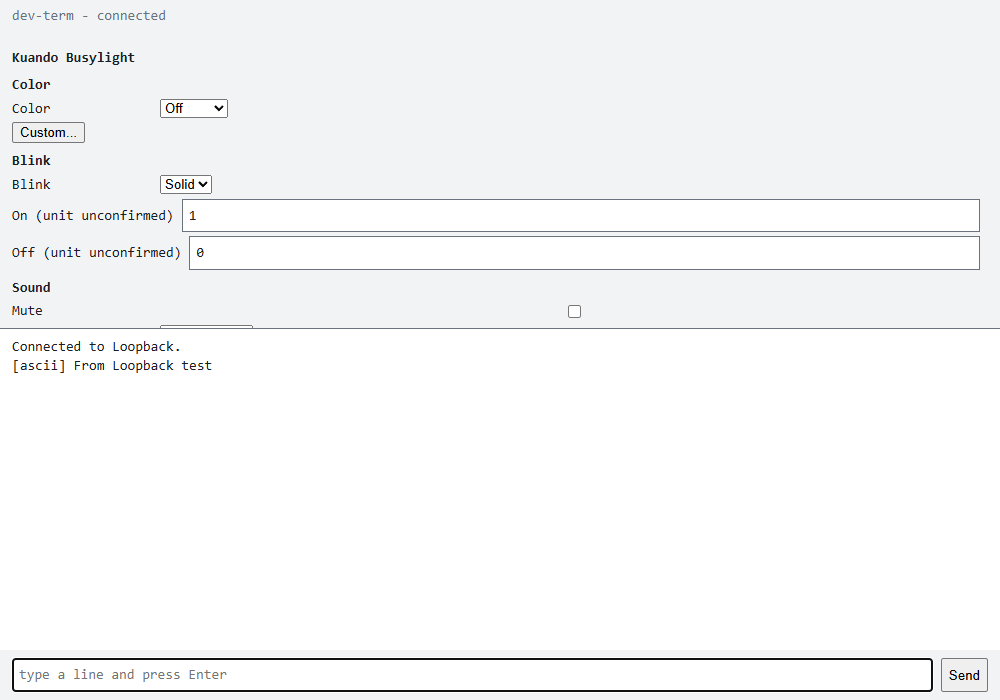
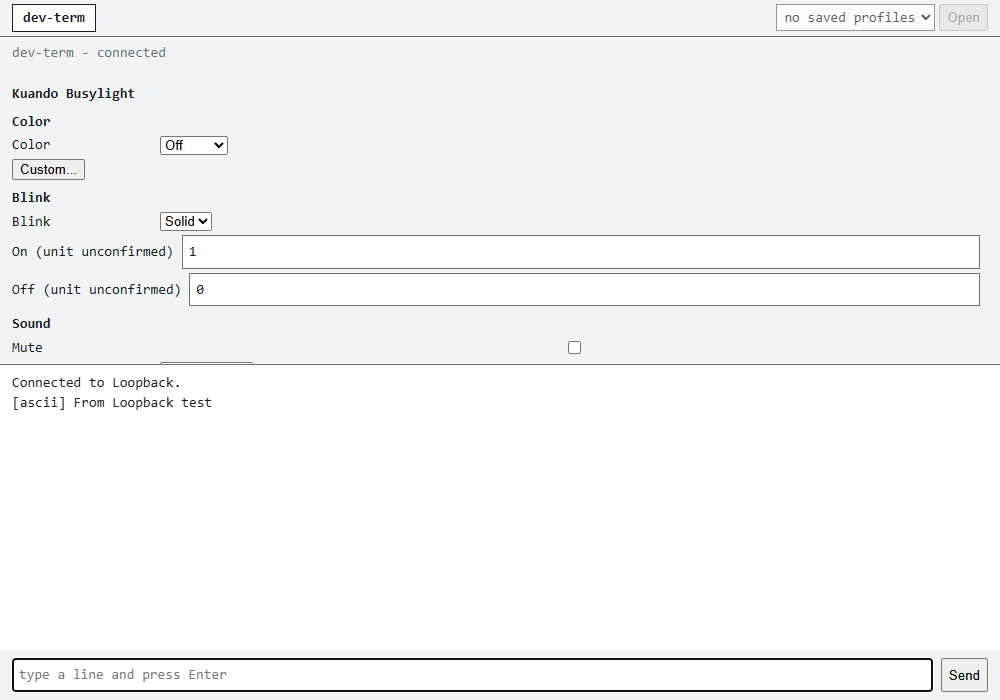
Web: main page shows each session as a tab, with a saved-profile picker to open more

diff --git a/src/DevTerm.Web/TerminalPage.cs b/src/DevTerm.Web/TerminalPage.cs
@@ -20,6 +20,12 @@ internal static class TerminalPage
           form { display: flex; gap: 8px; padding: 8px 12px; background: var(--bar); }
           input { flex: 1; font: inherit; padding: 6px; background: var(--bg); color: var(--fg); border: 1px solid var(--dim); }
           .err { color: #d1242f; }
+          #tabs { display: flex; gap: 4px; align-items: center; padding: 4px 12px; background: var(--bar); border-bottom: 1px solid var(--dim); flex-wrap: wrap; }
+          #tabs .tab { font: inherit; padding: 3px 10px; background: var(--bg); color: var(--fg); border: 1px solid var(--dim); cursor: pointer; }
+          #tabs .tab.on { border-color: var(--fg); font-weight: bold; }
+          #tabs .close { font: inherit; padding: 1px 5px; margin-left: -4px; margin-right: 8px; background: transparent; color: var(--dim); border: 0; cursor: pointer; }
+          #newsession { margin-left: auto; display: flex; gap: 4px; }
+          #newsession select { font: inherit; background: var(--bg); color: var(--fg); border: 1px solid var(--dim); padding: 3px; }
           #panel { padding: 8px 12px; background: var(--bar); border-bottom: 1px solid var(--dim); max-height: 40%; overflow: auto; }
           #panel h2 { font-size: 14px; margin: 8px 0 4px; }
           #panel .row { display: flex; align-items: center; gap: 8px; margin: 4px 0; flex-wrap: wrap; }
@@ -28,29 +34,86 @@ internal static class TerminalPage
         </style>
         </head>
         <body>
+        <nav id="tabs"></nav>
         <header id="status">connecting...</header>
         <div id="panel" hidden></div>
         <pre id="out"></pre>
         <form id="f"><input id="line" autocomplete="off" autofocus placeholder="type a line and press Enter"><button>Send</button></form>
         <script>
           const out = document.getElementById('out'), status = document.getElementById('status'), input = document.getElementById('line');
-          const ws = new WebSocket((location.protocol === 'https:' ? 'wss://' : 'ws://') + location.host + '/ws');
-          ws.onopen = () => status.textContent = 'dev-term - connected';
-          ws.onclose = () => status.textContent = 'dev-term - disconnected (reload to reconnect)';
-          ws.onmessage = e => {
-            const span = document.createElement('div');
-            span.textContent = e.data;
-            if (e.data.startsWith('!')) span.className = 'err';
-            out.appendChild(span);
-            out.scrollTop = out.scrollHeight;
-          };
+          const tabsEl = document.getElementById('tabs'), panelEl = document.getElementById('panel');
+          const tabs = []; let active = null; let panelShown = false;
+          let readOnly = false, profiles = [], pickedProfile = null;
+
+          // One tab per session: the host's own session (/ws) and every connection opened from a saved profile (/ws/{id}).
+          // Each keeps its own WebSocket and output, so switching tabs loses nothing.
+          function appendLine(text) {
+            const d = document.createElement('div'); d.textContent = text;
+            if (text.startsWith('!')) d.className = 'err';
+            out.appendChild(d); out.scrollTop = out.scrollHeight;
+          }
+          function render() {
+            tabsEl.textContent = '';
+            for (const t of tabs) {
+              const b = document.createElement('button');
+              b.className = 'tab' + (t === active ? ' on' : ''); b.dataset.tab = t.key; b.textContent = t.name; b.onclick = () => select(t);
+              tabsEl.append(b);
+              if (t.key !== 'main') {
+                const x = document.createElement('button');
+                x.className = 'close'; x.textContent = 'x'; x.title = 'Close ' + t.name; x.disabled = readOnly; x.onclick = () => closeTab(t);
+                tabsEl.append(x);
+              }
+            }
+            const pick = document.createElement('select'); pick.id = 'profile';
+            const open = document.createElement('button'); open.id = 'open'; open.textContent = 'Open'; open.disabled = readOnly || profiles.length === 0;
+            for (const n of profiles) pick.append(Object.assign(document.createElement('option'), { textContent: n.name, value: n.name, title: n.description }));
+            if (profiles.length === 0) pick.append(Object.assign(document.createElement('option'), { textContent: 'no saved profiles' }));
+            pick.disabled = profiles.length === 0; pick.value = pickedProfile || pick.value; pick.onchange = () => { pickedProfile = pick.value; };
+            open.onclick = () => openProfile(pick.value);
+            const add = document.createElement('span'); add.id = 'newsession'; add.append(pick, open);
+            tabsEl.append(add);
+            if (active) {
+              out.textContent = '';
+              for (const l of active.lines) appendLine(l);
+              status.textContent = active.name + ' - ' + active.state;
+              panelEl.hidden = !(panelShown && active.key === 'main');
+            }
+          }
+          function addTab(key, name, path, makeActive) {
+            if (tabs.some(t => t.key === key)) return;
+            const tab = { key, name, lines: [], state: 'connecting...' };
+            const ws = new WebSocket((location.protocol === 'https:' ? 'wss://' : 'ws://') + location.host + path);
+            tab.ws = ws;
+            ws.onopen = () => { tab.state = 'connected'; if (tab === active) render(); };
+            ws.onclose = () => { tab.state = 'disconnected' + (key === 'main' ? ' (reload to reconnect)' : ''); if (tab === active) render(); };
+            ws.onmessage = e => { tab.lines.push(e.data); if (tab.lines.length > 5000) tab.lines.shift(); if (tab === active) appendLine(e.data); };
+            tabs.push(tab);
+            if (makeActive || !active) active = tab;
+            render();
+          }
+          function select(tab) { active = tab; render(); input.focus(); }
+          function removeTab(key) {
+            const i = tabs.findIndex(t => t.key === key);
+            if (i < 0) return;
+            const [gone] = tabs.splice(i, 1);
+            try { gone.ws.close(); } catch { }
+            if (active === gone) active = tabs[Math.max(0, i - 1)];
+            render();
+          }
+          async function closeTab(tab) { await fetch('/api/connections/' + tab.key, { method: 'DELETE' }); removeTab(tab.key); }
+          async function openProfile(name) {
+            const res = await fetch('/api/connections?name=' + encodeURIComponent(name), { method: 'POST' });
+            if (!res.ok) { line('! could not open ' + name + ' (' + res.status + ')'); return; }
+            const c = await res.json();
+            addTab(c.id, c.name, '/ws/' + c.id, true);
+            select(tabs.find(t => t.key === c.id));
+          }
           document.getElementById('f').onsubmit = e => {
             e.preventDefault();
-            if (input.value && ws.readyState === WebSocket.OPEN) { ws.send(input.value); input.value = ''; }
+            if (active && input.value && active.ws.readyState === WebSocket.OPEN) { active.ws.send(input.value); input.value = ''; }
           };
 
           // Device control panel: rendered generically from the UiDefinition served at /api/panel (404 = none configured).
-          let readOnly = false;
           async function invoke(commandId, value) {
             const res = await fetch('/api/invoke', { method: 'POST', headers: { 'Content-Type': 'application/json' }, body: JSON.stringify({ commandId, value }) });
             if (!res.ok) { const e = await res.json().catch(() => ({})); line('! ' + (e.error || res.status)); }
@@ -85,8 +148,17 @@ internal static class TerminalPage
             return row;
           }
           (async () => {
-            const status = await fetch('/api/status').then(r => r.json()).catch(() => ({}));
-            readOnly = !!status.readOnly;
+            const st = await fetch('/api/status').then(r => r.json()).catch(() => ({}));
+            readOnly = !!st.readOnly;
+            profiles = await fetch('/api/project').then(r => r.json()).catch(() => []);
+            addTab('main', 'dev-term', '/ws', true);
+            const open = await fetch('/api/connections').then(r => r.json()).catch(() => []);
+            for (const c of open) addTab(c.id, c.name, '/ws/' + c.id, false);
+            // Other tabs, the /connections page and the REST calls open and close sessions too.
+            const es = new EventSource('/api/events');
+            es.addEventListener('connection-opened', e => { const c = JSON.parse(e.data); addTab(c.id, c.name, '/ws/' + c.id, false); });
+            es.addEventListener('connection-closed', e => removeTab(JSON.parse(e.data).id));
+            es.addEventListener('project-changed', async () => { profiles = await fetch('/api/project').then(r => r.json()).catch(() => profiles); render(); });
             const res = await fetch('/api/panel');
             if (!res.ok) return;
             const def = await res.json();
@@ -96,7 +168,7 @@ internal static class TerminalPage
               if (section.Label) panel.append(el('h2', { textContent: section.Label }));
               for (const c of section.Controls) panel.append(renderControl(c));
             }
-            panel.hidden = false;
+            panelShown = true; render();
           })();
         </script>
         </body>

diff --git a/tests/DevTerm.Web.Tests/WebScreenshotTests.cs b/tests/DevTerm.Web.Tests/WebScreenshotTests.cs
@@ -188,4 +188,31 @@ public class WebScreenshotTests
         await Assertions.Expect(page.Locator("#out")).ToContainTextAsync("From Loopback test");
         await SaveAsync(page, "web-terminal-reply.png");
     });
+
+    /// <summary>Opens two saved profiles as tabs beside the host's own session; each keeps its own output, and closing one leaves the rest.</summary>
+    [TestMethod]
+    public Task TerminalPage_MultipleSessions_OpenSwitchAndClose() => RunAsync(async (page, baseUrl) =>
+    {
+        await page.GotoAsync($"{baseUrl}/?token=demo-token");
+        await WaitConnectedAsync(page);
+        await Task.Delay(500); // the profile list loads after the page does
+
+        await page.Locator("#profile").SelectOptionAsync("Scope");
+        await page.Locator("#open").ClickAsync();
+        await Assertions.Expect(page.Locator("button.tab")).ToHaveCountAsync(2);
+        await page.Locator("#line").FillAsync("hello");
+        await page.Locator("#line").PressAsync("Enter");
+        await Assertions.Expect(page.Locator("#out")).ToContainTextAsync("From Loopback test");
+
+        await page.Locator("#profile").SelectOptionAsync("Supply");
+        await page.Locator("#open").ClickAsync();
+        await Assertions.Expect(page.Locator("button.tab")).ToHaveCountAsync(3);
+        await Assertions.Expect(page.Locator("#out")).Not.ToContainTextAsync("From Loopback test"); // a different session
+        await SaveAsync(page, "web-terminal-tabs.png");
+
+        await page.Locator("button.tab[data-tab=main]").ClickAsync();
+        await Assertions.Expect(page.Locator("#status")).ToContainTextAsync("dev-term");
+        await page.Locator("button.close").First.ClickAsync();
+        await Assertions.Expect(page.Locator("button.tab")).ToHaveCountAsync(2);
+    }, BenchProject());
 }

diff --git a/docs/changes/2026-10-08.md b/docs/changes/2026-10-08.md
@@ -47,3 +47,5 @@ SCPI is now a plugin. New `IInstrumentPanelProvider` (`DevTerm.Core.Control`) is
 Web: Blazor `/profiles` editor and `GET /api/discover`. The page lists the project file's connections (Edit, Open, Delete with an inline second click) and a New connection form generated from `ConnectionEditorViewModel.FormDefinition` through `FormBinding` (the same model the TUI and WPF editors render): sections as fieldsets, fields shown by `VisibleWhen` so only the chosen transport's fields appear, presenters as checkboxes, per-field constraint messages, Save through `ConnectionManager.Upsert` (same validation as `PUT /api/project/connections/{name}`, errors shown inline), and "Detect network devices..." which runs the LXI/mDNS/SSDP probes and prefills Transport/Host/Port from a hit. The rich device pickers (`Selected*`) and command buttons are not on the web form. `GET /api/discover?seconds=1..10` returns the probe hits as JSON (`[]` on an unreachable network). New `ConnectionManager.ProjectOptions(name)`; a nav row (Profiles, Connections, Panel) on every page. Tests: `WebScreenshotTests.ProfilesPage_AddEditAndDelete_Screenshot`, `ProfilesPage_AnUnnamedConnection_ShowsTheValidationError`, `ProfilesPage_ReadOnly_DisablesEditing`, `WebHostTests.ApiDiscover_RequiresTheTokenAndReturnsAJsonArray`; screenshots `web-blazor-profiles.png`, `web-blazor-profile-editor.png`. Not verified: discovery over a real LAN from the web page.
 
 Web: without `--project` the host now works on the shared saved-profile store (`ConnectionProfileStore`, what the TUI and WPF use) instead of an empty set, so `/profiles`, `/connections` and `POST /api/connections` see the same profiles by default (user report: opening the main page's connection with nothing configured only showed a serial `PortName` validation error). `ConnectionManager` takes the store as an optional fourth argument (null keeps the old no-project behaviour for tests); a `--project` file still takes precedence. Test: `ConnectionManagerStoreTests`. Fixed a screenshot-test selector (`TcpPort`, not `Port`).
+
+Web: the main page is now multi-session like the TUI and WPF. A tab bar holds the host's own session plus one tab per opened saved profile, each with its own WebSocket, output and status; a profile dropdown with Open starts one, x closes one, tabs open at page load are restored, and the `connection-*` events keep several browsers and `/connections` in step. Page-only change (no new endpoints). Test: `WebScreenshotTests.TerminalPage_MultipleSessions_OpenSwitchAndClose`; screenshot `web-terminal-tabs.png`; `web-terminal-page.png` and `web-terminal-reply.png` regenerated with the tab bar.

diff --git a/docs/specs/web-terminal.md b/docs/specs/web-terminal.md
@@ -70,6 +70,10 @@ All viewers share one session. Output goes to everyone; sends are serialized. A 
 page and the next sent line retries, as in the TUI/WPF. Input that the parser cannot encode is reported to the sender
 only.
 
+## Sessions as tabs (main page `/`)
+
+The main page has one tab per session, like the desktop apps: **dev-term** (the host's own session, `/ws`) and one tab for each connection opened from a saved profile (`/ws/{id}`). Each tab has its own WebSocket, output and status line (`<name> - connected|disconnected`); the send box goes to the active tab. The profile dropdown with **Open** (right of the tabs) starts a saved profile as a new tab (`POST /api/connections`); the **x** beside a tab closes it (`DELETE /api/connections/{id}`; the main tab has none). Tabs already open when the page loads are restored, and the `connection-opened`/`connection-closed` events keep every open browser tab in step with the `/connections` page and REST calls. The profile list follows `project-changed`. A read-only token can read every tab but cannot open or close one. The device panel, when configured, shows under the main tab only.
+
 ## Blazor connections page (`/connections`)
 
 Same token auth. Lists the `--project` file's connections (name, description, **Open**) and the extra connections currently

diff --git a/docs/user-guide/web-terminal.md b/docs/user-guide/web-terminal.md
@@ -74,6 +74,12 @@ document for tooling, and `/asyncapi.json` describes the WebSocket and event-str
  They need
 the same token as everything else, so open them after `?token=` has set the cookie.
 
+### Several sessions in tabs
+
+The main page works like the desktop apps: the host's own session is the **dev-term** tab, and picking a saved profile and pressing **Open** adds a tab for it. Tabs keep their own output, so you can switch between a scope and a supply without losing either; **x** closes one. Opening or closing one elsewhere (another browser tab, `/connections`, the REST calls) shows up here too.
+
+![Three sessions as tabs](images/web-terminal-tabs.png)
+
 ### The /connections page
 
 Open `/connections` for the same thing as buttons: **Open** starts a project connection as its own session, **Close** ends it.
